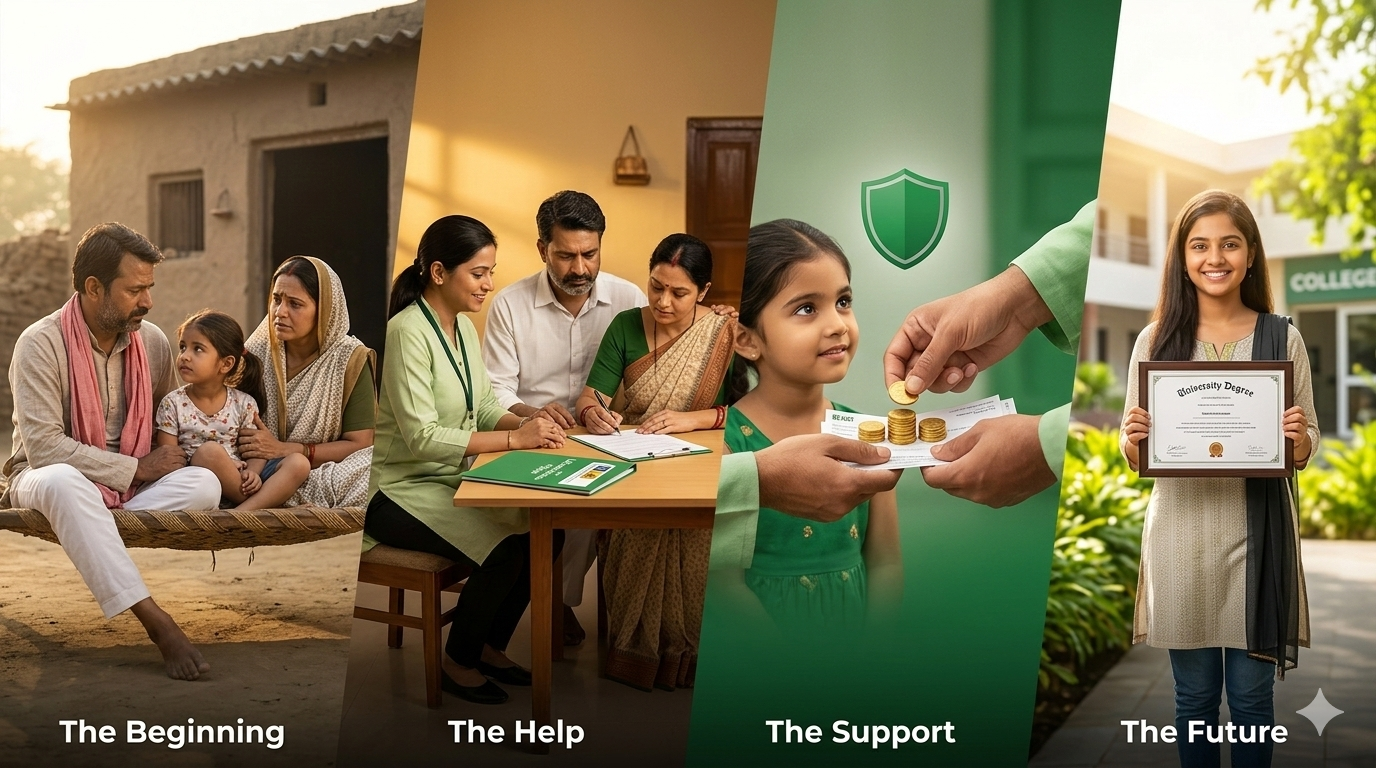
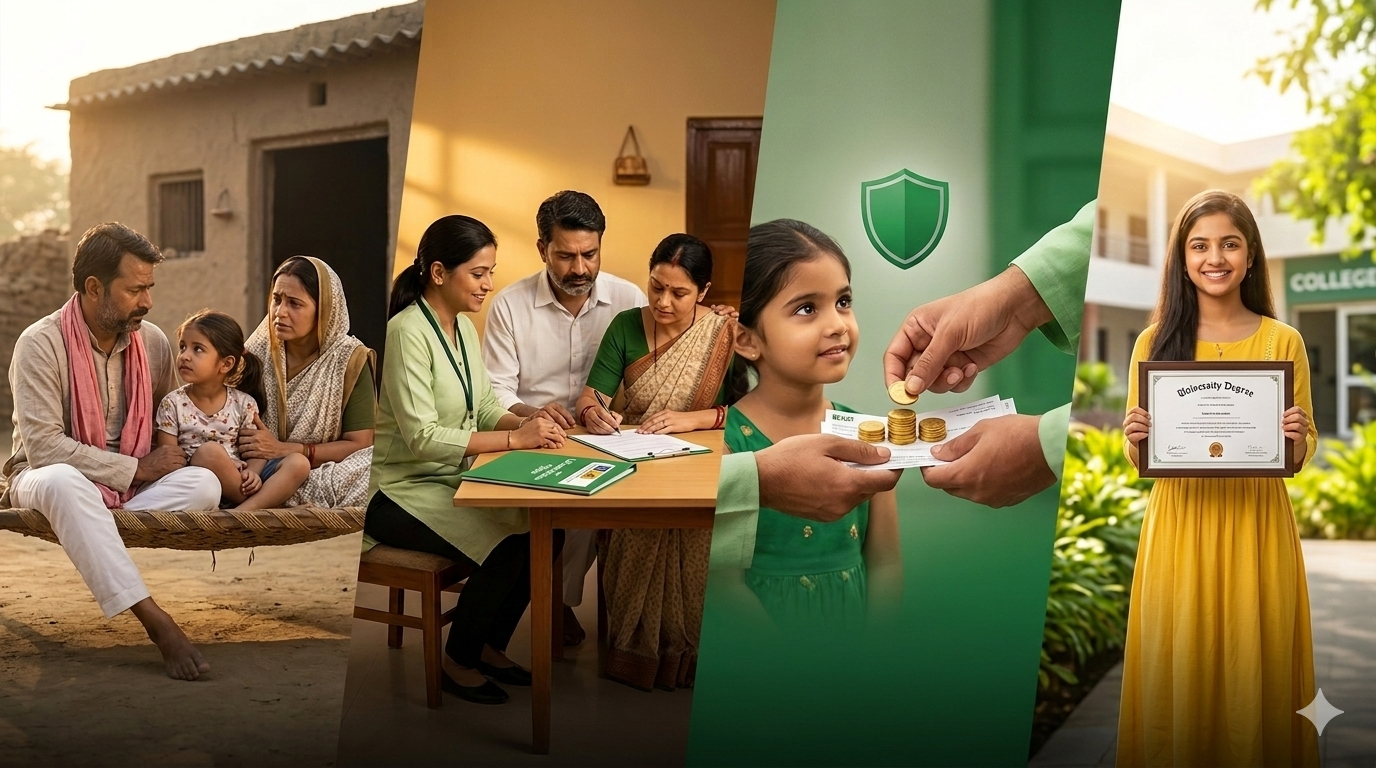
carousel add in kanyadan service card

diff --git a/Frontend/src/pages/service.jsx b/Frontend/src/pages/service.jsx
@@ -27,6 +27,11 @@ import medicalKidney from "../assets/images/Medical/kidney.jpg";
 import helmet from "../assets/images/communitySafety/helmet.png";
 import rites from "../assets/images/socialWelfare/rites.png";
 import kandyaDan from "../assets/images/socialWelfare/kanyadan.png";
+import kanyaHero from "../assets/images/socialWelfare/Kanyadan/hero.png";
+import kanyaBeginning from "../assets/images/socialWelfare/Kanyadan/Beggining.png";
+import kanyaHelp from "../assets/images/socialWelfare/Kanyadan/Help.png";
+import kanyaSupport from "../assets/images/socialWelfare/Kanyadan/Support.png";
+import kanyaFuture from "../assets/images/socialWelfare/Kanyadan/Future.png";
 import road from "../assets/images/infrastructure/road.jpg";
 import widow from "../assets/images/women/widow.png";
 import "./service.css";
@@ -305,20 +310,21 @@ const SERVICE_DATA = [
     icon: FaHandHoldingHeart,
     programs: [
       {
-        title: "Kanyadan Yojna",
-        titleHi: "कन्यादान योजना",
-        titleBn: "কন্যাদান যোজনা",
-        titlePa: "ਕੰਨਿਆਦਾਨ ਯੋਜਨਾ",
-        description: "Supporting marriage assistance for daughters from economically vulnerable families.",
-        descriptionHi: "आर्थिक रूप से कमजोर परिवारों की बेटियों के लिए विवाह सहायता।",
-        descriptionBn: "অর্থনৈতিকভাবে দুর্বল পরিবারের মেয়েদের বিবাহ সহায়তা প্রদান।",
-        descriptionPa: "ਆਰਥਿਕ ਤੌਰ 'ਤੇ ਕਮਜ਼ੋਰ ਪਰਿਵਾਰਾਂ ਦੀਆਂ ਧੀਆਂ ਲਈ ਵਿਆਹ ਸਹਾਇਤਾ।",
+        title: "Kanyadan Yojna — LIC Support",
+        titleHi: "कन्यादान योजना — LIC बीमा सहायता",
+        titleBn: "কন্যাদান যোজনা — LIC বীমা সহায়তা",
+        titlePa: "ਕੰਨਿਆਦਾਨ ਯੋਜਨਾ — LIC ਬੀਮਾ ਸਹਾਇਤਾ",
+        description: "We enroll underprivileged girls in LIC life insurance policies and pay the first 3 premiums — giving every daughter a secured financial future.",
+        descriptionHi: "हम वंचित लड़कियों को LIC जीवन बीमा पॉलिसी में नामांकित करते हैं और पहली 3 प्रीमियम भरते हैं — हर बेटी को एक सुरक्षित भविष्य देते हैं।",
+        descriptionBn: "আমরা সুবিধাবঞ্চিত মেয়েদের LIC জীবন বীমা পলিসিতে নথিভুক্ত করি এবং প্রথম ৩টি প্রিমিয়াম পরিশোধ করি।",
+        descriptionPa: "ਅਸੀਂ ਵੰਚਿਤ ਲੜਕੀਆਂ ਨੂੰ LIC ਜੀਵਨ ਬੀਮਾ ਪਾਲਿਸੀ ਵਿੱਚ ਦਾਖਲ ਕਰਦੇ ਹਾਂ ਅਤੇ ਪਹਿਲੇ 3 ਪ੍ਰੀਮੀਅਮ ਭਰਦੇ ਹਾਂ।",
         fullDescription: "Marriage is a significant social milestone in India, but for families living in poverty, arranging a daughter's wedding can mean selling assets, taking high-interest loans, or simply being unable to provide the basic dignified celebration their daughter deserves. Our Kanyadan Yojna provides financial and material support for marriages of girls from below-poverty-line and economically weaker families. Support includes contribution toward wedding ceremony costs, essential household items like utensils, bedding, and basic furniture for the new home, assistance with wedding attire for the bride, and guidance on legal registration of marriage and accessing government marriage assistance schemes. We work with local panchayats, social workers, and community leaders to identify genuine cases and ensure the support reaches families in need, not those misusing welfare programs. We also conduct premarital counseling and awareness sessions on legal rights, domestic violence prevention, and family planning. Group wedding ceremonies organized under this program help families reduce costs while creating a joyful community celebration. Your donation contributes directly to helping daughters begin their new lives with dignity and to reducing the financial burden that pushes many poor families into debt.",
         fullDescriptionHi: "शादी भारत में एक महत्वपूर्ण सामाजिक मील का पत्थर है, लेकिन गरीबी में रहने वाले परिवारों के लिए बेटी की शादी का इंतजाम करना मुश्किल हो सकता है। हमारी कन्यादान योजना गरीबी रेखा से नीचे के परिवारों की शादियों के लिए वित्तीय और भौतिक सहायता प्रदान करती है। समर्थन में विवाह समारोह लागत, आवश्यक घरेलू सामान और विवाह पोशाक शामिल हैं।",
         image: kandyaDan,
+        images: [kanyaHero, kanyaBeginning, kanyaHelp, kanyaSupport, kanyaFuture],
         cta: "Help Now",
         href: "/services/welfare/kanyadan",
-        donationTitle: "Support a daughter's wedding through Kanyadan Yojna",
+        donationTitle: "Support LIC Policy Enrollment for Underprivileged Girls — Kanyadan Yojna",
       },
       {
         title: "Dignified Last Rites",
@@ -466,6 +472,36 @@ const CATEGORY_OPTIONS = [
     icon: service.icon,
   })),
 ];
+
+function CardCarousel({ images, alt }) {
+  const [idx, setIdx] = useState(0);
+  useEffect(() => {
+    const t = setInterval(() => setIdx((i) => (i + 1) % images.length), 2800);
+    return () => clearInterval(t);
+  }, [images.length]);
+  return (
+    <>
+      {images.map((src, i) => (
+        <img
+          key={i}
+          src={src}
+          alt={alt}
+          className={`carousel-slide${i === idx ? " active" : ""}`}
+          loading="lazy"
+        />
+      ))}
+      <div className="carousel-dots">
+        {images.map((_, i) => (
+          <span
+            key={i}
+            className={`carousel-dot${i === idx ? " active" : ""}`}
+            onClick={(e) => { e.stopPropagation(); setIdx(i); }}
+          />
+        ))}
+      </div>
+    </>
+  );
+}
 
 function ServicePage() {
   const navigate = useNavigate();
@@ -649,7 +685,11 @@ function ServicePage() {
               >
                 <div className="program-media-link" aria-label={`Read more about ${program.title}`}>
                   <div className="program-media">
-                    <img src={program.image} alt={program.title} loading="lazy" />
+                    {program.images ? (
+                      <CardCarousel images={program.images} alt={program.title} />
+                    ) : (
+                      <img src={program.image} alt={program.title} loading="lazy" />
+                    )}
                     <div className="program-readmore" aria-hidden="true">
                       <span>Read More</span>
                       <span className="program-readmore-dots">...</span>

diff --git a/Frontend/src/utils/serviceTranslations.js b/Frontend/src/utils/serviceTranslations.js
@@ -7,7 +7,7 @@ export const mealTranslations = {
     donors: "Donors",
     daysLeft: "Days left",
     funded: "Funded",
-    donateNow: "Donate Now",
+    donateNow: "Help Now",
     share: "Share",
     storyTitle: "The Story",
     supportTitle: "Support the Nutritious Meal initiative",
@@ -71,7 +71,7 @@ export const orphanHealthTranslations = {
     donors: "Donors",
     daysLeft: "Days left",
     funded: "Funded",
-    donateNow: "Donate Now",
+    donateNow: "Help Now",
     share: "Share",
     supportTitle: "Support comprehensive health and medical care",
     supportDesc: "Your donation ensures every child receives proper medical attention and preventive care.",
@@ -95,7 +95,7 @@ export const orphanEducationTranslations = {
   en: {
     title: "Help provide education support for children in orphanage care",
     organization: "by Guardian of Angels Trust",
-    donateNow: "Donate Now",
+    donateNow: "Help Now",
     share: "Share",
     supportTitle: "Support quality education for every child",
     supportDesc: "Your contribution ensures orphans have access to quality education and learning resources.",
@@ -114,7 +114,7 @@ export const elderMealTranslations = {
   en: {
     title: "Provide daily nutritious meals for abandoned elderly",
     organization: "by Guardian of Angels Trust",
-    donateNow: "Donate Now",
+    donateNow: "Help Now",
     share: "Share",
     supportTitle: "Support daily meal care for seniors",
     supportDesc: "Your contribution provides nutritious meals to elderly citizens in need.",
@@ -133,7 +133,7 @@ export const elderMedicalTranslations = {
   en: {
     title: "Provide urgent medical assistance and life-saving care",
     organization: "by Guardian of Angels Trust",
-    donateNow: "Donate Now",
+    donateNow: "Help Now",
     share: "Share",
     supportTitle: "Support medical care for elderly",
     supportDesc: "Your donation provides essential medical assistance to vulnerable elderly.",
@@ -152,7 +152,7 @@ export const elderLivingTranslations = {
   en: {
     title: "Provide dignified living and shelter for abandoned elderly",
     organization: "by Silver Years Foundation",
-    donateNow: "Donate Now",
+    donateNow: "Help Now",
     share: "Share",
     topDonations: "Top Donations",
     allDonations: "All Donations",
@@ -175,7 +175,7 @@ export const medicalCampTranslations = {
   en: {
     title: "Fund a Mega Free Health Checkup Camp for rural communities",
     organization: "by Arogya Care Foundation",
-    donateNow: "Donate Now",
+    donateNow: "Help Now",
     share: "Share",
     topDonations: "Top Donations",
     allDonations: "All Donations",
@@ -198,7 +198,7 @@ export const medicalCancerTranslations = {
   en: {
     title: "Support Life-Saving Cancer Treatments & Care",
     organization: "by Arogya Care Foundation",
-    donateNow: "Donate Now",
+    donateNow: "Help Now",
     share: "Share",
     topDonations: "Top Donations",
     allDonations: "All Donations",
@@ -231,7 +231,7 @@ export const medicalKidneyTranslations = {
   en: {
     title: "Support Life-Saving Kidney Dialysis & Care",
     organization: "by Arogya Care Foundation",
-    donateNow: "Donate Now",
+    donateNow: "Help Now",
     share: "Share",
     topDonations: "Top Donations",
     allDonations: "All Donations",
@@ -264,7 +264,7 @@ export const welfareKanyadanTranslations = {
   en: {
     title: "Support a daughter's wedding through Kanyadan Yojana",
     organization: "by Guardian of Angels Trust",
-    donateNow: "Donate Now",
+    donateNow: "Help Now",
     share: "Share",
     supportTitle: "Support Kanyadan wedding assistance",
     supportDesc: "Your donation helps poor families provide dignified weddings for their daughters.",
@@ -283,7 +283,7 @@ export const welfareRitesTranslations = {
   en: {
     title: "Support Dignified Last Rites: A Respectful Farewell for the Underprivileged",
     organization: "by Guardian of Angels Trust",
-    donateNow: "Donate Now",
+    donateNow: "Help Now",
     share: "Share",
     supportTitle: "Support dignified last rites",
     supportDesc: "Your donation helps underprivileged families perform respectful final rites.",
@@ -302,7 +302,7 @@ export const womenWidowTranslations = {
   en: {
     title: "Empower Widow Women with Financial and Social Support",
     organization: "by Women Welfare Foundation",
-    donateNow: "Donate Now",
+    donateNow: "Help Now",
     share: "Share",
     topDonations: "Top Donations",
     allDonations: "All Donations",
@@ -344,7 +344,7 @@ export const infrastructureRoadTranslations = {
     donors: "Donors",
     daysLeft: "Days left",
     funded: "Funded",
-    donateNow: "Donate Now",
+    donateNow: "Help Now",
     share: "Share",
     storyTitle: "The Cause",
     supportTitle: "Support this infrastructure mission",
@@ -386,7 +386,7 @@ export const communityHelmetTranslations = {
   en: {
     title: "Protect Lives: Nationwide Helmet Distribution Drive",
     organization: "by SafeRoads Initiative",
-    donateNow: "Donate Now",
+    donateNow: "Help Now",
     share: "Share",
     topDonations: "Top Donations",
     allDonations: "All Donations",

diff --git a/Frontend/src/pages/services/orphanage/education.jsx b/Frontend/src/pages/services/orphanage/education.jsx
@@ -358,7 +358,7 @@ function OrphanageEducationPage() {
 
                                     <Link to="/donate" state={{ serviceImage: orphanEducation, serviceTitle: "Help provide education support for children in orphanage care" }} className="campaign-btn campaign-btn-primary">
 
-                                        Donate Now
+                                        Help Now
 
                                     </Link>
 
@@ -488,7 +488,7 @@ function OrphanageEducationPage() {
 
                                 <Link to="/donate" state={{ serviceImage: orphanEducation, serviceTitle: "Help provide education support for children in orphanage care" }} className="campaign-btn campaign-btn-primary">
 
-                                    Donate Now
+                                    Help Now
 
                                 </Link>
 

diff --git a/Frontend/src/pages/service.css b/Frontend/src/pages/service.css
@@ -272,6 +272,48 @@
   display: block;
 }
 
+/* Carousel slides */
+.carousel-slide {
+  position: absolute;
+  inset: 0;
+  width: 100%;
+  height: 100%;
+  object-fit: cover;
+  display: block;
+  opacity: 0;
+  transition: opacity 0.7s ease;
+}
+
+.carousel-slide.active {
+  opacity: 1;
+}
+
+/* Carousel dots */
+.carousel-dots {
+  position: absolute;
+  bottom: 10px;
+  left: 50%;
+  transform: translateX(-50%);
+  display: flex;
+  gap: 6px;
+  z-index: 3;
+  pointer-events: all;
+}
+
+.carousel-dot {
+  width: 7px;
+  height: 7px;
+  border-radius: 50%;
+  background: rgba(255, 255, 255, 0.5);
+  cursor: pointer;
+  transition: background 0.2s ease, transform 0.2s ease;
+}
+
+.carousel-dot.active {
+  background: #ffffff;
+  transform: scale(1.3);
+}
+
 .program-readmore {
   position: absolute;
   inset: 0;

diff --git a/Frontend/src/pages/services/welfare/kanyadan.jsx b/Frontend/src/pages/services/welfare/kanyadan.jsx
@@ -396,6 +396,7 @@ function KanyadanYojnaPage() {
                         <article className="campaign-card">
                             <div className="campaign-image-wrap">
                                 <img src={heroImg} alt="Kanyadan Yojna" />
+                                <span className="campaign-chip">LIC Policy Support</span>
                             </div>
 
                             <div className="campaign-body">

diff --git a/Frontend/src/pages/profile.jsx b/Frontend/src/pages/profile.jsx
@@ -614,7 +614,7 @@ const Profile = () => {
           <div className="empty-icon"><FaHeart /></div>
           <h3>Ready to make a difference?</h3>
           <p>You haven't made any donations yet. Your support can change lives.</p>
-          <Link to="/donate" className="btn-donate-now">Donate Now</Link>
+          <Link to="/donate" className="btn-donate-now">Help Now</Link>
         </div>
       )}
     </div>

diff --git a/Frontend/src/pages/home.jsx b/Frontend/src/pages/home.jsx
@@ -142,7 +142,7 @@ function Home() {
             </p>
             <div style={styles.heroButtons}>
               <Link to="/donate" className="primary-btn pulse-btn" style={styles.primaryBtn}>
-                Donate Now
+                Help Now
               </Link>
               <Link to="/find-ngos" className="secondary-btn" style={styles.secondaryBtn}>
                 Locate NGOs

diff --git a/Frontend/src/components/common/footer.jsx b/Frontend/src/components/common/footer.jsx
@@ -30,7 +30,7 @@ function Footer() {
               <li><Link to="/">Home</Link></li>
               <li><Link to="/find-ngos">Find NGOs</Link></li>
               <li><Link to="/volunteer">Volunteer</Link></li>
-              <li><Link to="/donate">Donate Now</Link></li>
+              <li><Link to="/donate">Help Now</Link></li>
             </ul>
           </div>
 
